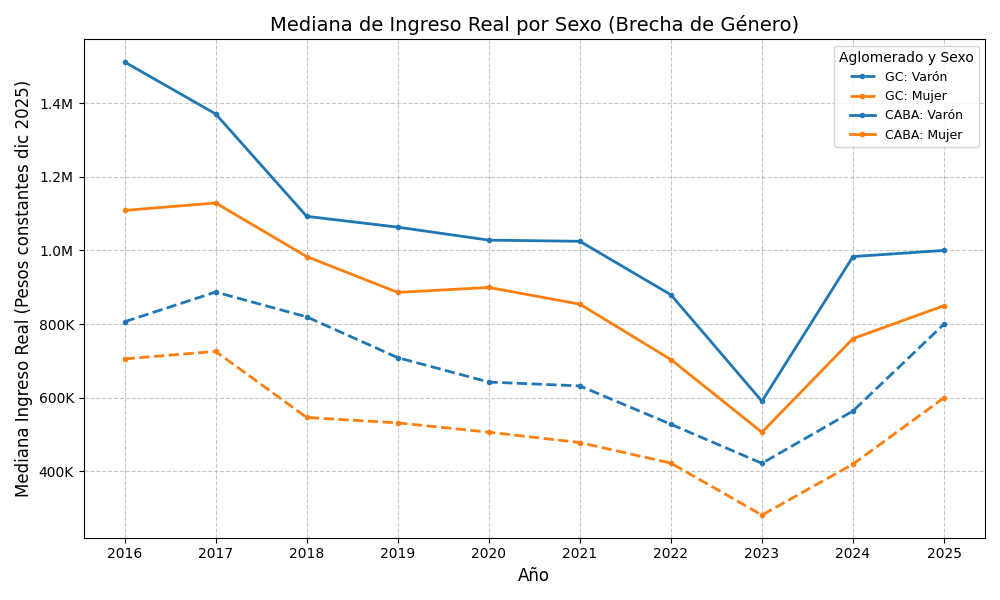
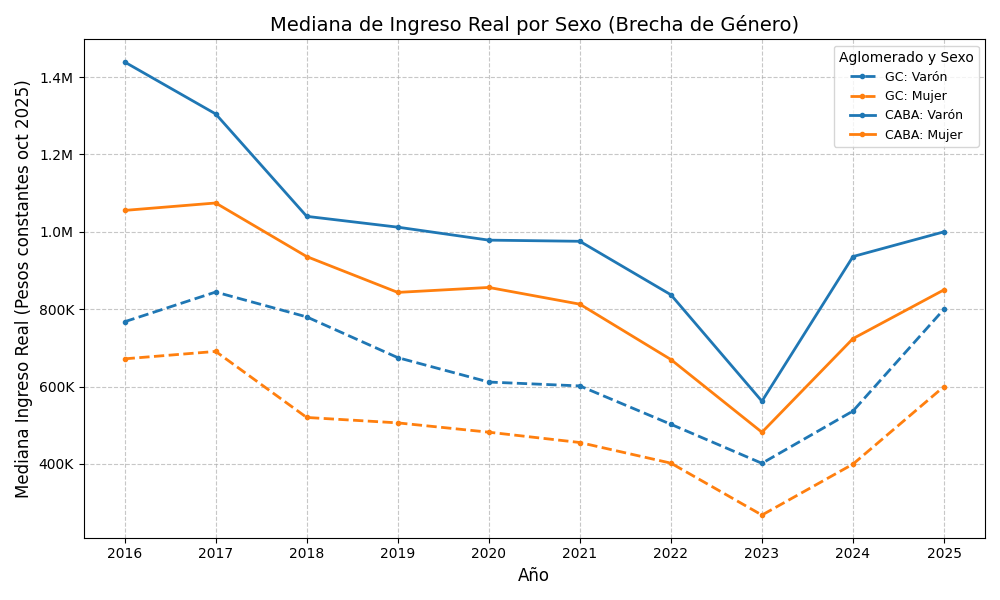
Arreglos

diff --git a/calcular_ingresos.py b/calcular_ingresos.py
@@ -5,10 +5,10 @@ import os
 import matplotlib.pyplot as plt
 
 # --- 1. DATOS DE IPC (Índice de Precios al Consumidor) ---
-# Usamos los valores proporcionados para deflactar a Pesos Constantes de Dic-2025.
+# Usamos los valores proporcionados para deflactar a Pesos Constantes de Oct-2025.
 ipc_data = {
     'Año': [2016, 2017, 2018, 2019, 2020, 2021, 2022, 2023, 2024, 2025],
-    'IPC': [100.0, 125.0, 184.5, 284.4, 392.2, 590.1, 1145.9, 3584.8, 7687.3, 10079.43]
+    'IPC': [100.0, 125.0, 184.5, 284.4, 392.2, 590.1, 1145.9, 3584.8, 7687.3, 9593.8]
 }
 df_ipc = pd.DataFrame(ipc_data)
 ipc_base_2025 = df_ipc[df_ipc['Año'] == 2025]['IPC'].iloc[0]
@@ -169,7 +169,7 @@ ax.bar(r2, df_32['Mediana_Real_PONDIIO'], color='#ff7f0e', width=bar_width,
 
 # Título y etiquetas
 ax.set_xlabel('Año', fontsize=12)
-ax.set_ylabel('Mediana ingreso real (P21) en pesos constantes (base dic 2025)', fontsize=10)
+ax.set_ylabel('Mediana ingreso real (P21) en pesos constantes (base oct 2025)', fontsize=10)
 ax.set_title('Mediana ingreso real (P21) — Aglos 13 vs 32 (2016–2025)', fontsize=14)
 
 # Configuración de Eje X
@@ -324,7 +324,7 @@ for aglo_code, aglo_name in aglomerado_map.items():
     
     # Formato
     ax1.set_title(f'Cuartiles de Ingreso (Líneas Separadas) - {aglo_name}', fontsize=14)
-    ax1.set_ylabel('Ingreso Real (Pesos constantes dic 2025)', fontsize=12)
+    ax1.set_ylabel('Ingreso Real (Pesos constantes oct 2025)', fontsize=12)
     ax1.set_xlabel('Año', fontsize=12)
     ax1.yaxis.set_major_formatter(FuncFormatter(format_y_tick_quantiles))
     ax1.set_ylim(0, y_max * 1.05)
@@ -359,7 +359,7 @@ for aglo_code, aglo_name in aglomerado_map.items():
     
     # Formato
     ax2.set_title(f'Dispersión y Mediana (Banda) - {aglo_name}', fontsize=14)
-    ax2.set_ylabel('Ingreso Real (Pesos constantes dic 2025)', fontsize=12)
+    ax2.set_ylabel('Ingreso Real (Pesos constantes oct 2025)', fontsize=12)
     ax2.set_xlabel('Año', fontsize=12)
     ax2.yaxis.set_major_formatter(FuncFormatter(format_y_tick_quantiles))
     ax2.set_ylim(0, y_max * 1.05)
@@ -529,7 +529,7 @@ ax.tick_params(axis='x', rotation=45)
 
 ax.set_title('Retorno a la Educación: Mediana Real (2016-2025)', fontsize=14)
 ax.set_xlabel('Año', fontsize=12)
-ax.set_ylabel('Mediana Ingreso Real (Pesos constantes dic 2025)', fontsize=12)
+ax.set_ylabel('Mediana Ingreso Real (Pesos constantes oct 2025)', fontsize=12)
 
 # Colocamos la leyenda en un lugar legible
 ax.legend(title='Aglomerado y Nivel', loc='upper right', fontsize=9)

diff --git a/modelo_imputacion.py b/modelo_imputacion.py
@@ -14,7 +14,7 @@ from matplotlib.ticker import FuncFormatter
 # ============================================================
 
 RUTA_CARPETA = 'data/raw'
-TRIMESTRE = 'usu_individual_T424.txt'   # archivo del trimestre
+TRIMESTRE = 'usu_individual_T225.txt'   # archivo del trimestre
 
 VARS = {
     'INGRESO': 'P21',
@@ -30,7 +30,7 @@ VARS = {
     'SECTOR': 'PP04A'
 }
 
-AGLOS = {13: "CABA / GBA", 32: "Córdoba"}
+AGLOS = {32: "CABA", 13: "Córdoba"}
 
 # ============================================================
 # CARGA DEL TRIMESTRE
@@ -76,8 +76,16 @@ def estimar_modelo_por_aglomerado(df, aglo):
     df_model["PESO"] = df_model[VARS['PONDERADOR']]
     df_model["EDAD_SQ"] = df_model[VARS['EDAD']] ** 2
 
-    df_validos = df_model[df_model[VARS['INGRESO']] > 0].copy()
-    
+    df_validos = df_model[df_model[VARS['INGRESO']] > 0].copy() 
+
+    # --- Tratamiento de outliers SOLO para CABA ---
+    if aglo == 32:  # CABA
+        q99 = df_validos[VARS['INGRESO']].quantile(0.99)
+        print(f"[Aglo {aglo}] Percentil 99 ingreso: {q99:,.0f}")
+        
+        # Winsorizar: aplastar la cola superior al p99
+        df_validos[VARS['INGRESO']] = np.minimum(df_validos[VARS['INGRESO']], q99)
+
     df_validos["LOG_P21"] = np.log(df_validos[VARS['INGRESO']])
 
     print("Registros válidos:", len(df_validos))
@@ -168,9 +176,6 @@ def estimar_modelo_por_aglomerado(df, aglo):
     plt.ylabel("Residuos")
 
     plt.grid(alpha=0.3)
-
-    # --- Formato para predichos (eje X) ---
-    plt.gca().xaxis.set_major_formatter(formatter)
 
     plt.tight_layout()
     plt.savefig(f"residuos_{aglo}.png", dpi=150)

diff --git a/analisis_ingresos_sexo.py b/analisis_ingresos_sexo.py
@@ -27,10 +27,10 @@ SEXO_MAP = {1: 'Varón', 2: 'Mujer'}
 EDAD_MIN = 14  # Población en edad de trabajar
 
 
-# --- DATOS DE IPC (Corregido a la estimación 10079.43 para Dic-2025) ---
+# --- DATOS DE IPC (Corregido a la estimación 10079.43 para Oct-2025) ---
 ipc_data = {
     'Año': [2016, 2017, 2018, 2019, 2020, 2021, 2022, 2023, 2024, 2025],
-    'IPC': [100.0, 125.0, 184.5, 284.4, 392.2, 590.1, 1145.9, 3584.8, 7687.3, 10079.43]
+    'IPC': [100.0, 125.0, 184.5, 284.4, 392.2, 590.1, 1145.9, 3584.8, 7687.3, 9593.8]
 }
 df_ipc = pd.DataFrame(ipc_data)
 ipc_base_2025 = df_ipc[df_ipc['Año'] == 2025]['IPC'].iloc[0]
@@ -148,7 +148,7 @@ df_ingresos_sexo = pd.DataFrame(resultados_ingresos_sexo)
 print("\n" + "="*80)
 print("MEDIANA DE INGRESO REAL POR SEXO (2016-2025)")
 print("Base: Ocupados de 14+ años con ingreso declarado")
-print("Valores en pesos constantes de diciembre 2025")
+print("Valores en pesos constantes de octubreiembre 2025")
 print("="*80)
 
 # Formatear para mejor visualización
@@ -227,7 +227,7 @@ if not df_ingresos_sexo.empty:
     
     ax.set_title('Mediana de Ingreso Real por Sexo (Brecha de Género)', fontsize=14)
     ax.set_xlabel('Año', fontsize=12)
-    ax.set_ylabel('Mediana Ingreso Real (Pesos constantes dic 2025)', fontsize=12)
+    ax.set_ylabel('Mediana Ingreso Real (Pesos constantes oct 2025)', fontsize=12)
     
     ax.legend(title='Aglomerado y Sexo', loc='upper right', fontsize=9)
     ax.grid(True, linestyle='--', alpha=0.7)
